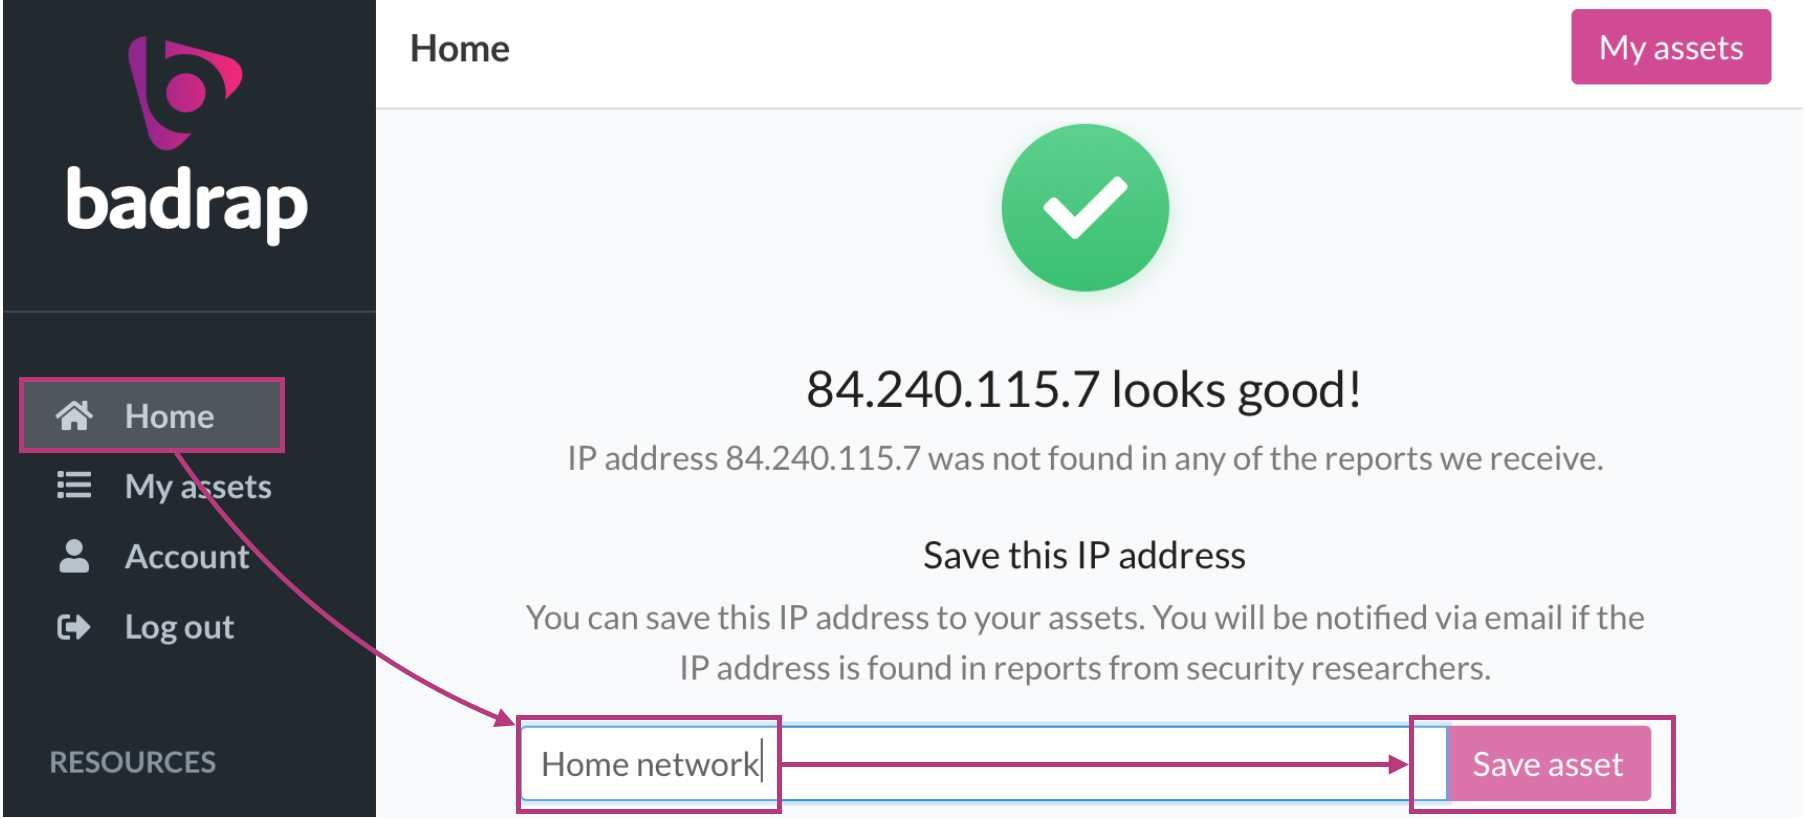
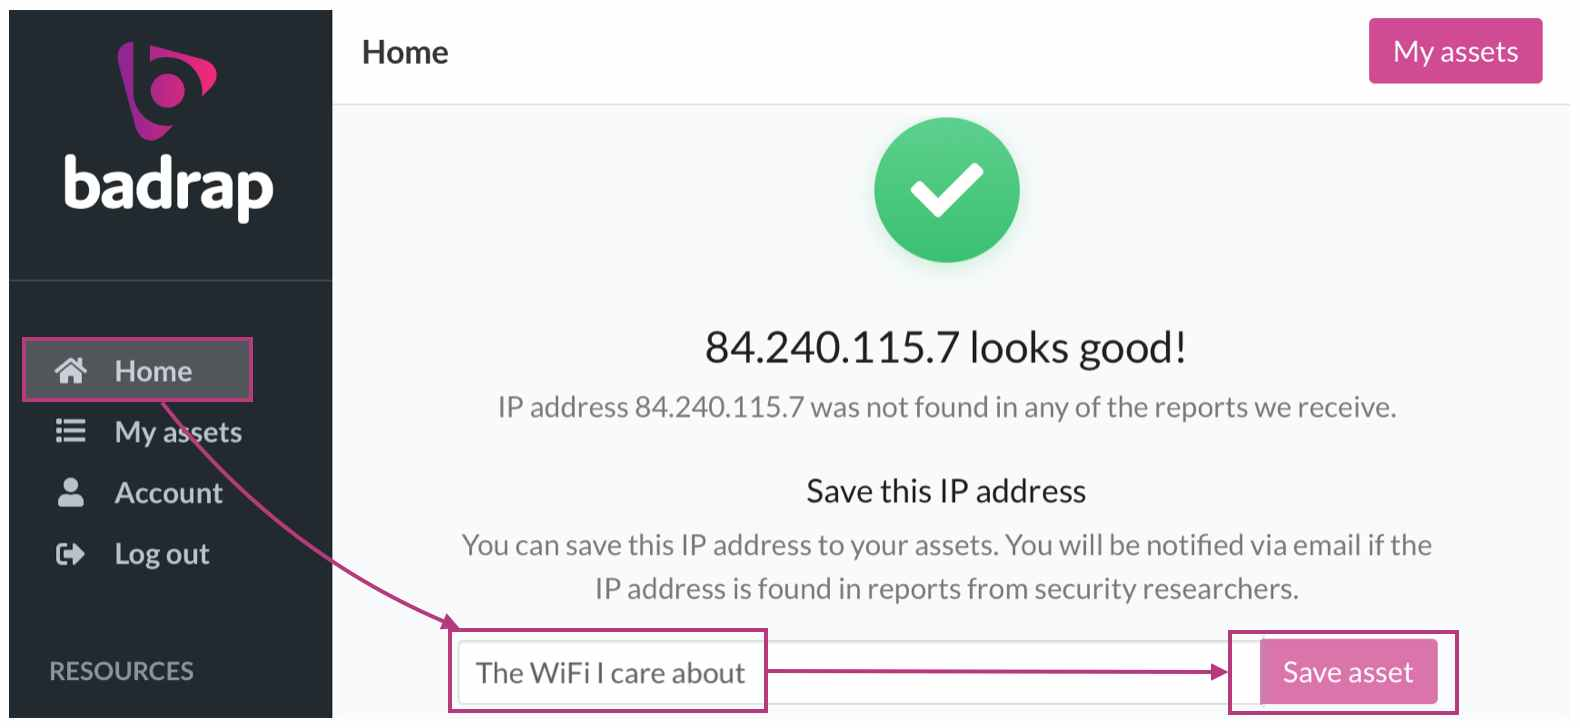
Health W3 - text and image fixes.

diff --git a/health/key/3rd/index.html b/health/key/3rd/index.html
@@ -31,12 +31,12 @@ leftbox:
       Criminals make a lot of money by extorting people and companies. They may encrypt files and demand
       money for unlocking them (ransomware). They may record your activities and threaten to release their material,
       or just fake that they have something (extortion).
-      Last week you learned how criminals exploit trust relationships. Be suspicious even if the
+      Last week you learned how criminals exploit trust relationships. Keep your guards upeven if the
       email comes from your friend or colleague.
 
 rightbox:
   - Ingress:
-    heading: Be Smart with Devices
+    heading: Protect Your Devices and Networks
     text: >
       During this month you have learned why your online safety matters and how to protect your personal
       information online. If you need to refresh your memory, all materials are available <a href="../">here.</a>
@@ -45,14 +45,12 @@ rightbox:
   - Mission:
     subheading: Your mission this week
     text: >
-      Your mission this week is to check if the networks you use. Badrap.io has information about vulnerable
+      Your mission is to check the networks you use. Badrap.io has information about vulnerable
       and compromised devices connected to the Internet. You can use your account at badrap.io to check that
       there is no known trouble in places you connect from.  Start with your home. Connect your personal device,
-      such as your smartphone or home computer to your home WiFi network. Visit badrap.io and check the results for your
-      network IP-address. Your IP-address is your device’s location in the Internet. Save your IP with
-      "Save asset" -button to get email warnings in the future. Please note:
-      if you use a laptop from work, it can make badrap.io to think you are coming from your work network and show
-      different results.
+      such as your smartphone to your home WiFi network. Visit badrap.io and check the results for your
+      network IP-address. If you see a warning, follow the instructions. Save the IP with
+      "Save asset" -button to get email warnings in the future.
     img: ip-assets.jpg
     img-text: Checking the network (IP-address) with badrap.io
   - How:
@@ -66,6 +64,7 @@ rightbox:
       Also add any new email you might have created since your last visit.
     img: all-good.jpg
     img-text: Your monthly all-good email is your cue to visit badrap.io and check your asset list is up to date.
+    img-size: 60%
 missionbox:
   heading: Your mission for week 3
   text: Take these easy steps to qualify for rewards&#58
